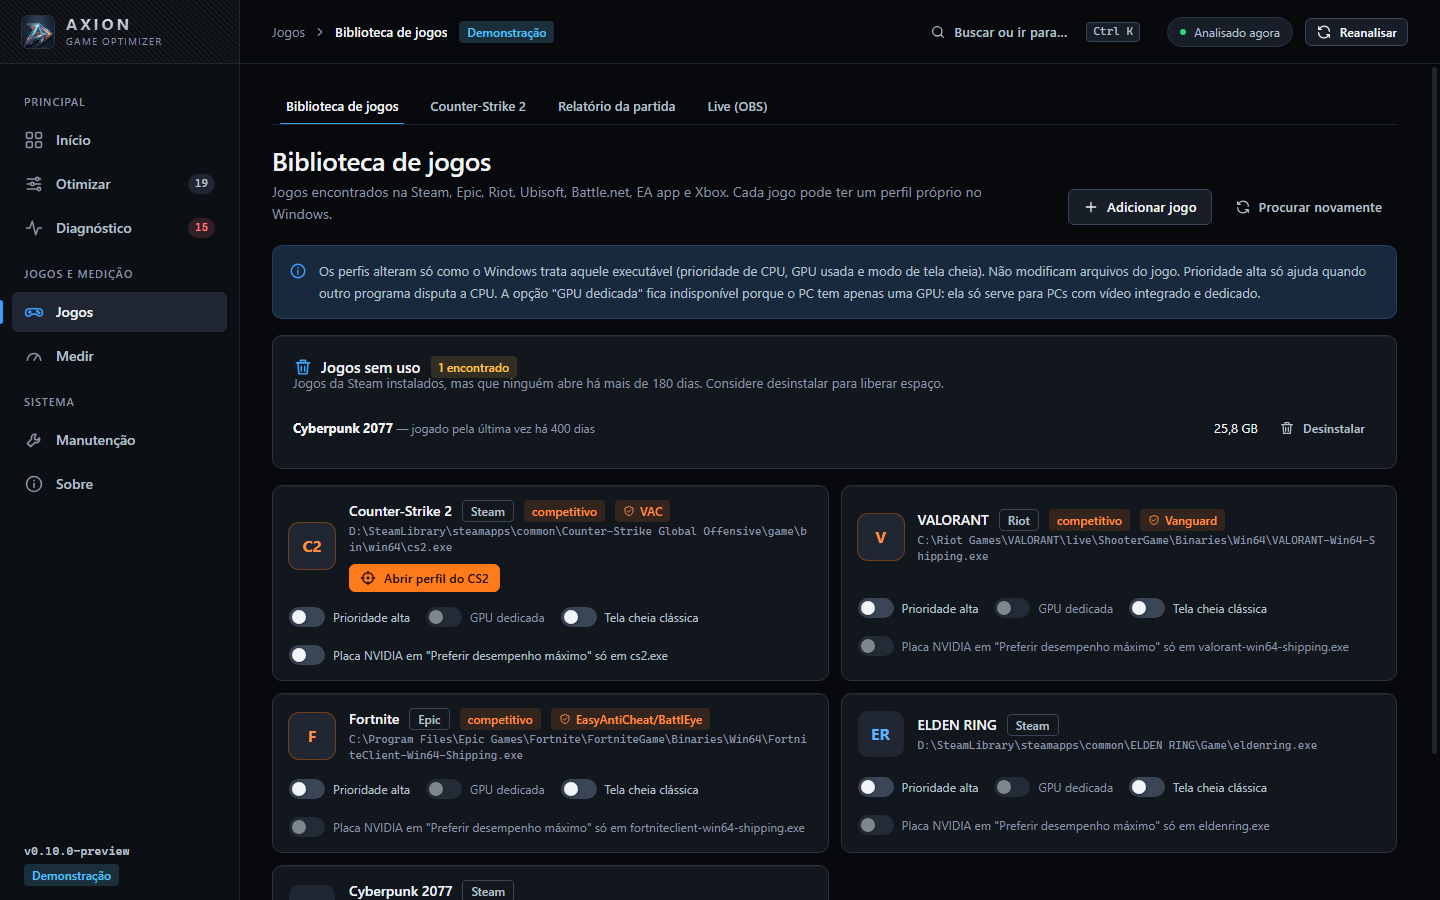
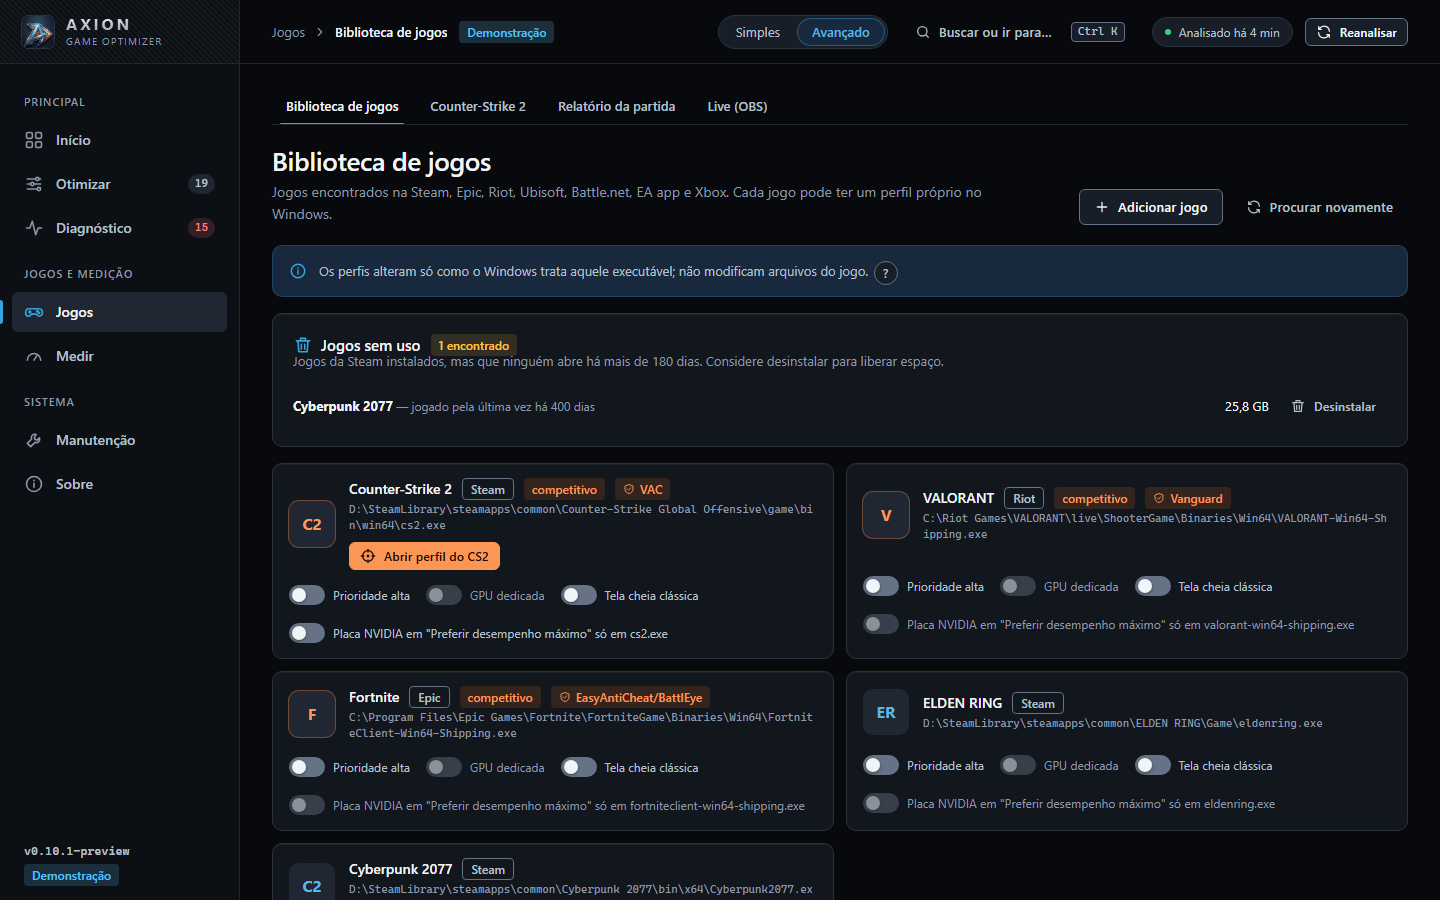
Página do GitHub para a 0.10.1: capturas novas e README atualizado
Capturas refeitas sobre o PC simulado (selo "Demonstração"), com a paleta
nova, o seletor Simples | Avançado na barra superior e os rótulos de
certeza. Mesmos nomes e tamanhos de antes: inicio, diagnostico, avaliacao,
otimizar, ajuste, plano, manter-frequencia, desempenho, atraso-de-entrada,
prova, jogos, cs2, saude, historico, desfazer, modo-simples, busca,
o-que-nao-fazemos, perfil e inicio-depois. Modo Avançado em todas, menos
modo-simples.png. Imagem nova: ajuda.png (Otimizações ativas com o painel
do "?" aberto, a origem de cada item e o Desfazer na linha).

README: badge e nomes dos pacotes na 0.10.1; seletor Simples | Avançado e
ajuda "?"; os quatro rótulos de certeza do diagnóstico; os quatro sinais
da linha de otimização com o Desfazer; exportar e importar a seleção; a
regra de PC de empresa ou escola para o Windows Update; perfis que não
jogam; textos alternativos das imagens; e o que foi testado numa máquina
real (0.10.0 num notebook com Windows 10) e o que só no simulador (as
novidades da 0.10.1). Links de download continuam em releases/latest.

diff --git a/README.md b/README.md
@@ -8,7 +8,7 @@
 </p>
 
 <p align="center">
-  <img alt="Versão 0.10.0" src="https://img.shields.io/badge/vers%C3%A3o-0.10.0-3BA0FF">
+  <img alt="Versão 0.10.1" src="https://img.shields.io/badge/vers%C3%A3o-0.10.1-3BA0FF">
   <img alt="Windows 10 e 11" src="https://img.shields.io/badge/Windows-10%20%7C%2011-0078D4?logo=windows&logoColor=white">
   <a href="LICENSE"><img alt="Licença MIT" src="https://img.shields.io/badge/licen%C3%A7a-MIT-34D27B"></a>
   <img alt="Sem driver de kernel" src="https://img.shields.io/badge/driver%20de%20kernel-nenhum-FF7A1A">
@@ -22,7 +22,7 @@
   <sub><a href="#como-instalar">Como instalar</a> · <a href="#primeiros-passos">Primeiros passos</a> · <a href="#seguran%C3%A7a-e-privacidade">Segurança e privacidade</a> · <a href="#perguntas-frequentes">Perguntas frequentes</a></sub>
 </p>
 
-<p align="center"><img src="docs/img/inicio.png" width="900" alt="Início do Axion: a nota do PC para jogos, as 19 melhorias recomendadas e o botão para aplicar"></p>
+<p align="center"><img src="docs/img/inicio.png" width="900" alt="Início do Axion no modo Avançado: o seletor Simples | Avançado na barra superior, a nota do PC para jogos, as 19 melhorias recomendadas e o botão para aplicar"></p>
 
 <p align="center"><sub>Todas as imagens desta página são da interface real rodando sobre o PC simulado do projeto (modo demonstração, por isso o selo "Demonstração"). Os números não são de uma máquina real.</sub></p>
 
@@ -35,7 +35,8 @@
 | **Sem driver, sem injeção, sem telemetria** | Não instala driver de kernel, não injeta nada no jogo nem desenha sobre ele, não roda PowerShell nem arquivos de lote e não envia dados. Usa só registro, WMI, a API do Windows e ferramentas do próprio Windows. |
 | **Mede antes e depois** | FPS, 1% e 0,1% low e engasgos pelo PresentMon, da Intel. A "Prova no seu PC" só mantém um ajuste se ele melhorar pelo critério do Axion; se não melhorar, desfaz sozinho. |
 | **O que ele recusa é público** | A página "O que não fazemos" lista ajustes populares que ficam de fora de propósito, cada um com o mecanismo, o motivo e a fonte. |
-| **Para quem joga e para quem não joga** | Perfis de jogo competitivo, jogo + live, trabalho, criação e programação. O perfil decide o que conta na nota e o que entra no 1 clique. Notebook é tratado como notebook: na bateria, o Axion avisa antes de medir e não aplica o modo de energia. |
+| **Para quem joga e para quem não joga** | Perfis de jogo competitivo, jogo + live, trabalho, criação e programação. O perfil decide o que conta na nota e o que entra no 1 clique; nos perfis que não jogam, os atalhos de FPS e do CS2 saem do caminho. Notebook é tratado como notebook: na bateria, o Axion avisa antes de medir e não aplica o modo de energia. |
+| **Simples ou Avançado** | O seletor no topo escolhe entre uma tela só (a nota, o que mais pesa e as recomendadas sem risco) e a interface completa. As explicações longas ficam atrás de um botão "?", e abrem só quando você pede. |
 
 ## O que ele faz
 
@@ -49,30 +50,52 @@ O Axion lê o PC e mostra cada ponto com o que foi lido, por que importa e como 
 - Estabilidade: erros de hardware, telas azuis com orientação por código, desligamentos inesperados, reinícios do driver de vídeo.
 - Temperatura do processador pelo que o Windows informa sem driver: desligamento por temperatura crítica, throttling confirmado e limite de frequência.
 
-<p align="center"><img src="docs/img/diagnostico.png" width="860" alt="Diagnóstico com os pontos agrupados por gravidade, cada um com o que foi lido e o porquê"></p>
+Além da gravidade, cada achado diz quanto a leitura sustenta a conclusão:
+
+| Rótulo | Quando aparece |
+|---|---|
+| **Problema confirmado** | Uma leitura direta mostra o problema: um valor do registro, do WMI ou da API do Windows, um número comparado com um limite publicado, um registro do Visualizador de Eventos. |
+| **Possível problema** | A conclusão depende de uma inferência, de uma correlação ou do critério do Axion. É também o padrão: na dúvida, a regra não afirma mais do que leu. |
+| **Informação insuficiente** | O achado existe para dizer que algo não pôde ser lido. Aparece em tom neutro, nunca verde. |
+| **Condição normal** | Não há nada a corrigir. |
+
+<p align="center"><img src="docs/img/diagnostico.png" width="860" alt="Diagnóstico com os pontos agrupados por área, cada um com a gravidade, o rótulo Problema confirmado ou Possível problema, o que foi lido e o porquê"></p>
 
 A **Avaliação completa** junta tudo num botão e dá três notas: configuração, capacidade do hardware para o seu uso e medição.
 
-<p align="center"><img src="docs/img/avaliacao.png" width="860" alt="Avaliação completa com as notas de configuração, capacidade e medição"></p>
+<p align="center"><img src="docs/img/avaliacao.png" width="860" alt="Avaliação completa com as notas de configuração, capacidade e medição e o que ainda não foi medido"></p>
 
 ### Otimizar, item por item ou em 1 clique
 
 O catálogo é dividido por categoria, com a recomendação calculada para o seu PC. O 1 clique aplica o plano Recomendado, o Completo ou o Perfil Counter-Strike 2, e você revisa a lista antes.
 
-**Seleção em arquivo:** "Exportar seleção" salva a lista do que o Axion aplicou (só os identificadores, sem dados do PC); "Importar seleção" abre o plano com esses itens neste ou em outro PC, com as mesmas regras do 1 clique, e nada é aplicado sem você confirmar.
+Cada linha mostra quatro sinais sem abrir nada:
 
-<p align="center"><img src="docs/img/otimizar.png" width="860" alt="Página Otimizações com as categorias e os itens recomendados para o PC"></p>
+1. **Estado:** Ativo, Recomendado, Opcional, Não indicado, Bloqueado neste PC ou Não se aplica.
+2. **Risco:** sempre visível, inclusive "risco seguro".
+3. **Origem:** "Aplicado pelo Axion", "Já estava assim no Windows" ou "Não aplicado".
+4. **Desfazer:** um botão na própria linha, quando foi o Axion que aplicou. Faz o mesmo que o Desfazer do Histórico.
+
+**Seleção em arquivo:** "Exportar seleção" salva a lista do que o Axion aplicou (só os identificadores, sem dados do PC); "Importar seleção" abre o plano com esses itens neste ou em outro PC, com as mesmas regras do 1 clique, e nada é aplicado sem você confirmar. O que fica de fora aparece com o motivo.
+
+<p align="center"><img src="docs/img/otimizar.png" width="860" alt="Página Otimizações com Exportar seleção e Importar seleção, as categorias e cada item recomendado com o estado, o risco e Não aplicado"></p>
 
 Abra qualquer item para ver **como funciona, a evidência, o risco, o valor exato que vai mudar (e o atual) e as fontes**:
 
-<p align="center"><img src="docs/img/ajuste.png" width="860" alt="Um ajuste aberto: como funciona, evidência alta, risco seguro, o valor do registro que muda e a fonte"></p>
+<p align="center"><img src="docs/img/ajuste.png" width="860" alt="Um ajuste aberto: como funciona, evidência alta, risco seguro, o valor do registro que muda (e o atual) e a fonte"></p>
+
+Depois de aplicar, a linha diz de onde veio cada item ativo e oferece o Desfazer ali mesmo. O "?" ao lado da frase do topo abre o resto da explicação logo abaixo:
+
+<p align="center"><img src="docs/img/ajuda.png" width="860" alt="Otimizações ativas com o painel do botão ? aberto e, em cada linha, Ativo, risco seguro, Já estava assim no Windows ou Aplicado pelo Axion com o botão Desfazer"></p>
 
 | Antes de aplicar, a lista completa | Frequência do monitor: você confirma |
 |---|---|
-| <img src="docs/img/plano.png" width="430" alt="Plano de otimização recomendada com cada item, a evidência e o que pede reiniciar"> | <img src="docs/img/manter-frequencia.png" width="430" alt="Diálogo Manter esta frequência? com os botões Reverter e Manter e o aviso de volta automática em 15 segundos"> |
+| <img src="docs/img/plano.png" width="430" alt="Plano de otimização recomendada com cada item, a evidência, o que pede reiniciar e o motivo para este PC"> | <img src="docs/img/manter-frequencia.png" width="430" alt="Diálogo Manter esta frequência? com os botões Reverter e Manter e a contagem para a volta automática"> |
 | Dá para desmarcar qualquer item. O ponto de restauração do Windows vem marcado. | O monitor troca para a frequência máxima e o Axion pergunta se você está vendo a tela. Sem resposta em 15 segundos, volta sozinho à anterior e nada fica gravado. |
 
 O Axion também encontra e oferece desfazer o que **outros otimizadores deixaram para trás**: HPET forçado e tick do sistema, ajustes de TCP e offloads da placa de rede, modo de teste de drivers, DEP e UAC desligados, TDR da GPU, arquivo de paginação, serviços essenciais desativados e Windows Update bloqueado.
+
+**PC de empresa ou escola:** a análise lê se o PC faz parte de um domínio e se está inscrito num gerenciamento de dispositivos (MDM, como o Intune), sem guardar o nome do domínio. Num PC gerenciado, "Desbloquear o Windows Update" passa a "não recomendado" e sai do 1 clique, porque as políticas de atualização podem ser da organização e a Política de Grupo pode gravá-las de novo; o motivo diz para falar com o TI. Se a leitura falhar, o item também fica fora do 1 clique. Ele continua em Otimizações, com desfazer, para quem quiser aplicar mesmo assim.
 
 ### Medir
 
@@ -99,7 +122,7 @@ O Axion também encontra e oferece desfazer o que **outros otimizadores deixaram
 
 | Biblioteca de jogos | Counter-Strike 2 |
 |---|---|
-| <img src="docs/img/jogos.png" width="430" alt="Biblioteca de jogos com o launcher, o anti-cheat e as opções de perfil de cada jogo"> | <img src="docs/img/cs2.png" width="430" alt="Página do Counter-Strike 2 com a instalação, as opções de inicialização e as configurações de vídeo"> |
+| <img src="docs/img/jogos.png" width="430" alt="Biblioteca de jogos com o jogo sem uso, o launcher, o anti-cheat e as opções de perfil de cada jogo"> | <img src="docs/img/cs2.png" width="430" alt="Página do Counter-Strike 2 com a instalação, as opções de inicialização e as configurações de vídeo lidas do jogo"> |
 
 ### Saúde do Windows e manutenção
 
@@ -109,22 +132,28 @@ O Axion também encontra e oferece desfazer o que **outros otimizadores deixaram
 - **Inicialização e programas:** o que abre com o Windows (com desfazer) e desinstalação com as sobras na quarentena.
 - **Instalar programas** pelo winget depois de formatar, e **guia de BIOS** da sua placa-mãe.
 
-<p align="center"><img src="docs/img/saude.png" width="860" alt="Saúde do Windows: proteção, atualizações e disco, com o que está em ordem e o que pede atenção"></p>
+<p align="center"><img src="docs/img/saude.png" width="860" alt="Saúde do Windows: proteção, atualizações e disco, com o que está em ordem, o que pede atenção e o que não foi lido"></p>
 
 ### Histórico: tudo volta ao que era
 
-Cada mudança aparece com a hora, o valor anterior e um botão **Desfazer**. Dá para desfazer um item, um lote ou tudo; se outro programa mexeu no item depois, o Axion avisa antes de sobrescrever.
+Cada mudança aparece com a hora, o valor anterior e um botão **Desfazer**. Dá para desfazer um item, um lote ou tudo; se outro programa mexeu no item depois, o Axion avisa antes de sobrescrever. O mesmo Desfazer aparece na linha de cada otimização que o Axion aplicou.
 
 | Histórico com os valores anteriores | Resultado do "Desfazer tudo" |
 |---|---|
-| <img src="docs/img/historico.png" width="430" alt="Histórico com cada alteração, o valor anterior e o botão Desfazer"> | <img src="docs/img/desfazer.png" width="430" alt="Resultado do Desfazer tudo: 19 desfeitas, 0 conflitos, 0 falharam"> |
+| <img src="docs/img/historico.png" width="430" alt="Histórico com o lote da otimização recomendada, cada alteração com o valor anterior e o botão Desfazer"> | <img src="docs/img/desfazer.png" width="430" alt="Resultado do Desfazer tudo: 19 desfeitas, 0 conflitos, 0 falharam e a nota recalculada"> |
 
 ### Fácil para quem não quer mexer em nada
 
-| Modo simples | Busca Ctrl+K |
+O seletor **Simples | Avançado** fica sempre na barra superior, e a escolha fica guardada. Instalação nova começa no Simples; quem já usava o Axion continua no modo em que estava. Trocar de modo não aplica nem desfaz nada.
+
+- **Simples** é uma tela só: a nota, o que mais pesa nela, "Aplicar recomendadas" (só itens sem risco, os mesmos do 1 clique, com a lista para conferir antes) e "Desfazer mudanças", que abre o Histórico sem sair do modo Simples.
+- **Avançado** é a interface completa: todas as páginas, todas as otimizações e o que cada uma altera no Windows. As imagens desta página, menos a do modo Simples, são do Avançado.
+- **Ajuda "?":** as explicações longas viraram uma frase na tela e um botão "?" ao lado. O resto abre logo abaixo com um clique (ou Enter ou Espaço) e fecha com Esc. Os diálogos de aplicar e desfazer, as mensagens de erro e o detalhe de cada achado e de cada otimização continuam inteiros na tela.
+
+| Modo Simples | Busca Ctrl+K |
 |---|---|
-| <img src="docs/img/modo-simples.png" width="430" alt="Modo simples com a nota, o que mais pesa e o botão Resolver o que é seguro"> | <img src="docs/img/busca.png" width="430" alt="Busca Ctrl+K com páginas e ações"> |
-| A nota, os três pontos que mais pesam, um botão "Resolver o que é seguro" e outro para desfazer. | Digite o nome de uma página, de uma ação ("medir FPS") ou de uma otimização. |
+| <img src="docs/img/modo-simples.png" width="430" alt="Modo Simples com o seletor no topo, a nota, Aplicar recomendadas, Desfazer mudanças e o que mais pesa, com o rótulo Problema confirmado"> | <img src="docs/img/busca.png" width="430" alt="Busca Ctrl+K com páginas e ações"> |
+| A nota, o que mais pesa nela, "Aplicar recomendadas" e "Desfazer mudanças". | Digite o nome de uma página, de uma ação ("medir FPS") ou de uma otimização. Disponível no modo Avançado. |
 
 ### O que não fazemos
 
@@ -138,8 +167,8 @@ Na [página da versão mais recente](https://github.com/vinihammoud-create/axion
 
 | | Para quem | Como |
 |---|---|---|
-| **Instalador** `Axion-0.10.0-setup.exe` | Recomendado para a maioria | Instala em Arquivos de Programas, cria o atalho no menu Iniciar e aparece em Configurações > Aplicativos, de onde se desinstala. Antes de instalar, mostra o que o Axion faz e a licença. |
-| **ZIP portátil** `Axion-0.10.0-win64.zip` | Quem não quer instalar nada | Extraia numa pasta e abra o `Axion.exe`, mantendo os arquivos juntos. Para remover, apague a pasta. |
+| **Instalador** `Axion-0.10.1-setup.exe` | Recomendado para a maioria | Instala em Arquivos de Programas, cria o atalho no menu Iniciar e aparece em Configurações > Aplicativos, de onde se desinstala. Antes de instalar, mostra o que o Axion faz e a licença. |
+| **ZIP portátil** `Axion-0.10.1-win64.zip` | Quem não quer instalar nada | Extraia numa pasta e abra o `Axion.exe`, mantendo os arquivos juntos. Para remover, apague a pasta. |
 
 Nos dois casos, os dados ficam em `C:\ProgramData\Axion`.
 
@@ -156,11 +185,11 @@ O Axion ainda **não tem assinatura digital** (o projeto vai pedir a assinatura 
 1. **Confira o SHA-256** do arquivo baixado com o valor do `SHA256SUMS.txt` da mesma página da versão. Os dois comandos abaixo são do próprio Windows; use o que preferir:
 
    ```powershell
-   Get-FileHash .\Axion-0.10.0-setup.exe -Algorithm SHA256
+   Get-FileHash .\Axion-0.10.1-setup.exe -Algorithm SHA256
    ```
 
    ```bat
-   certutil -hashfile Axion-0.10.0-setup.exe SHA256
+   certutil -hashfile Axion-0.10.1-setup.exe SHA256
    ```
 
    Os 64 caracteres precisam ser iguais (maiúsculas e minúsculas não importam). Se forem diferentes, não abra o arquivo e baixe de novo pela página oficial.
@@ -172,17 +201,17 @@ Não desligue o antivírus nem o SmartScreen. Se o antivírus acusar um alarme f
 
 <p align="center"><img src="docs/img/perfil.png" width="640" alt="Pergunta da primeira abertura: para que você usa este PC, com os cinco perfis"></p>
 
-1. **Escolha o seu perfil.** Na primeira abertura o Axion pergunta para que você usa o PC e faz a análise, que leva alguns segundos. A análise só lê.
-2. **Leia o diagnóstico.** O Início mostra a nota, o que mais pesa nela e o próximo passo. Em "Por que importa", cada ponto explica o motivo.
+1. **Escolha o seu perfil.** Na primeira abertura o Axion pergunta para que você usa o PC e faz a análise, que leva alguns segundos. A análise só lê. Ele abre no modo Simples; para ver todas as páginas, escolha **Avançado** no topo.
+2. **Leia o diagnóstico.** O Início mostra a nota, o que mais pesa nela e o próximo passo. Cada ponto diz se o problema é confirmado ou possível, e "Por que importa" explica o motivo.
 3. **Aplique as recomendadas.** "Aplicar as recomendadas" abre a lista: revise, desmarque o que quiser e aplique. Os itens que só valem depois de reiniciar vêm sinalizados.
 4. **Meça antes e depois.** Em Medir > Desempenho, grave com o rótulo "antes", aplique, e grave com "depois", sempre no mesmo cenário do jogo.
-5. **Desfaça o que não quiser.** Em Otimizar > Histórico, um item, um lote ou tudo.
+5. **Desfaça o que não quiser.** Em Otimizar > Histórico, um item, um lote ou tudo; ou no botão Desfazer da própria linha da otimização. No modo Simples, "Desfazer mudanças" abre o Histórico.
 
-<p align="center"><img src="docs/img/inicio-depois.png" width="860" alt="Início depois de aplicar as recomendadas: tudo certo por aqui, 21 ativas e 0 recomendadas pendentes"></p>
+<p align="center"><img src="docs/img/inicio-depois.png" width="860" alt="Início depois de aplicar as recomendadas: tudo certo por aqui, 21 ativas, 0 recomendadas pendentes e a linha ativa com Aplicado pelo Axion e Desfazer"></p>
 
 ## Como desfazer e como desinstalar
 
-- **Desfazer:** Otimizar > Histórico > **Desfazer tudo** (ou um item, ou um lote). No modo simples, o botão "Desfazer mudanças" abre o Histórico. A Restauração do Sistema do Windows também serve, já que o Axion cria um ponto antes dos lotes.
+- **Desfazer:** Otimizar > Histórico > **Desfazer tudo** (ou um item, ou um lote). Cada otimização que o Axion aplicou também tem um botão Desfazer na própria linha. No modo Simples, o botão "Desfazer mudanças" abre o Histórico sem sair do Simples. A Restauração do Sistema do Windows também serve, já que o Axion cria um ponto antes dos lotes.
 - **Desinstalar não desfaz os ajustes.** O que o Axion mudou no Windows continua mudado. Para voltar tudo ao que era, use **Desfazer tudo antes de desinstalar**.
 - **O desinstalador avisa:** ele lê o histórico e, se ainda houver alterações ativas, diz quantas e recomenda desfazer antes. Se não conseguir ler o histórico, diz isso em vez de seguir como se não houvesse nada.
 - **O histórico fica guardado, a menos que você peça.** O desinstalador remove o programa, os atalhos e o cache da janela. A pasta de dados (`C:\ProgramData\Axion`, com o histórico para desfazer, a quarentena e as medições) só é apagada se você responder Sim; o padrão é manter, e um Axion instalado de novo continua podendo desfazer.
@@ -220,7 +249,11 @@ Achou uma falha de segurança? Veja o [`SECURITY.md`](SECURITY.md) para avisar e
 
 ## O que ainda é testado só no simulador
 
-O projeto não tem, nem no PC de desenvolvimento nem na nuvem de testes, jogo, placa de vídeo dedicada e anti-cheat reais. Estas partes passam nos testes do PC simulado, mas ainda não foram conferidas numa máquina real:
+O projeto não tem, nem no PC de desenvolvimento nem na nuvem de testes, jogo, placa de vídeo dedicada e anti-cheat reais.
+
+**Numa máquina real:** a versão 0.10.0 foi testada num notebook com Windows 10: instalar, analisar, aplicar, desfazer um item e desfazer tudo, e desinstalar. Um PC de jogos com placa de vídeo dedicada não foi testado.
+
+**Só no simulador:** as novidades da 0.10.1 (modo Simples e Avançado, ajuda "?", rótulos de certeza no diagnóstico, os quatro sinais e o Desfazer na linha, exportar e importar a seleção, e a leitura de PC de empresa ou escola) passam nos testes do PC simulado, mas ainda não foram conferidas numa máquina real. O mesmo vale para:
 
 - **Medição de FPS e relatório da partida** num jogo de verdade (com Vanguard, EAC ou BattlEye, o relatório da partida não foi testado).
 - **Perfil do driver NVIDIA** (leitura e correções).
@@ -241,7 +274,7 @@ Depende do seu PC, e o Axion não promete número. Ele corrige o que comprovadam
 Sim. O Axion reconhece o notebook e a bateria: avisa quando uma medição é feita na bateria, só aplica e desfaz o modo de energia na tomada e não trata a tela a 60 Hz na bateria como problema importante. O ajuste que desliga a economia de energia da rede por cabo avisa que, num notebook, ela poupa bateria.
 
 **Não jogo. Serve para mim?**
-Sim. Nos perfis Trabalho, Criação e Programação, os pontos que só importam em jogo não contam na nota nem entram no 1 clique, e o Início destaca a Saúde do Windows no lugar do CS2.
+Sim. Nos perfis Trabalho, Criação e Programação, os pontos que só importam em jogo não contam na nota nem entram no 1 clique. O Início destaca a Saúde do Windows no lugar do CS2, o último passo do ciclo é a Avaliação completa em vez da medição de FPS, a busca não oferece o perfil do CS2 nem "Medir FPS", e as páginas de jogos e medição vão para o fim do menu (nenhuma some).
 
 **Por que ele não faz o ajuste X que vi num vídeo?**
 Provavelmente está em "O que não fazemos", com o motivo e a fonte. Se não estiver, abra uma issue com a fonte.
